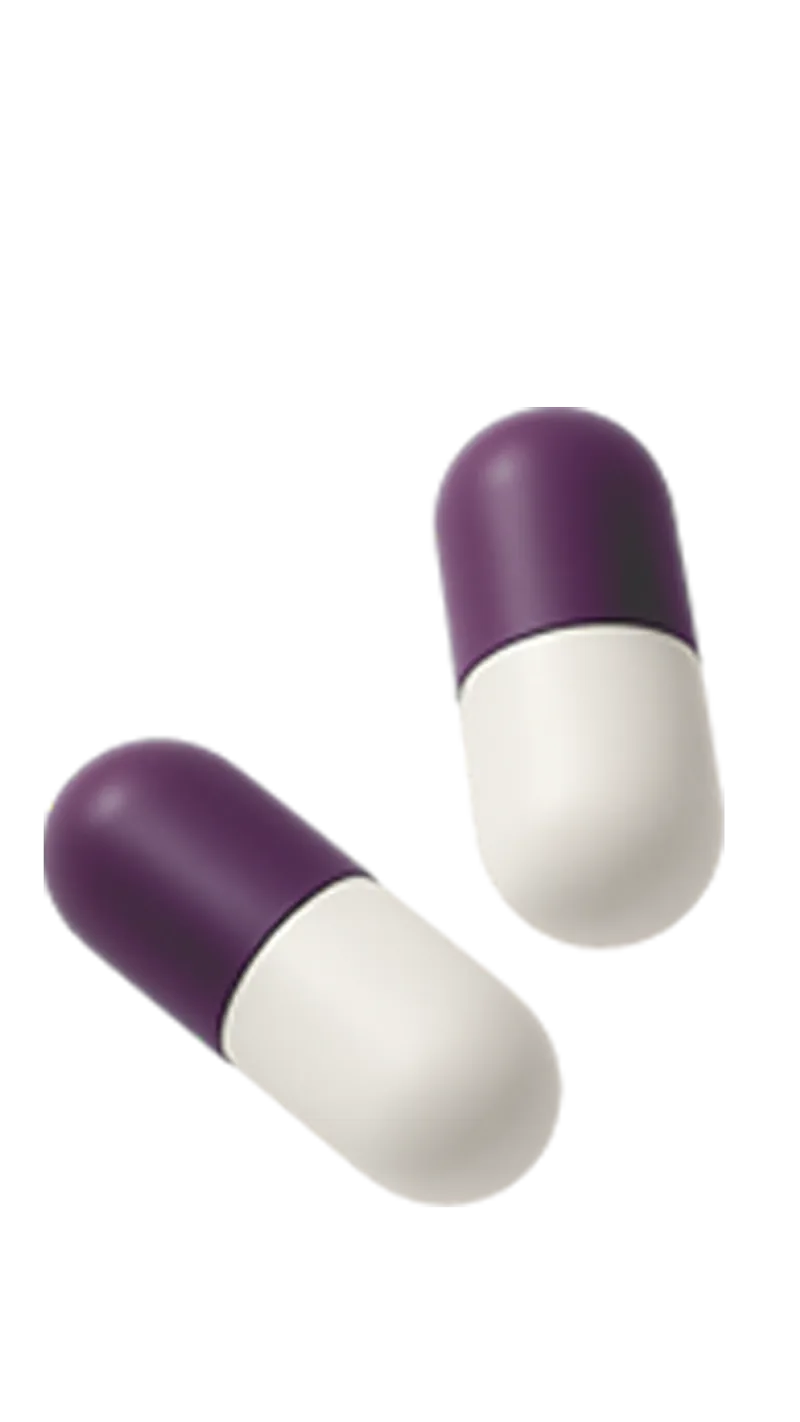
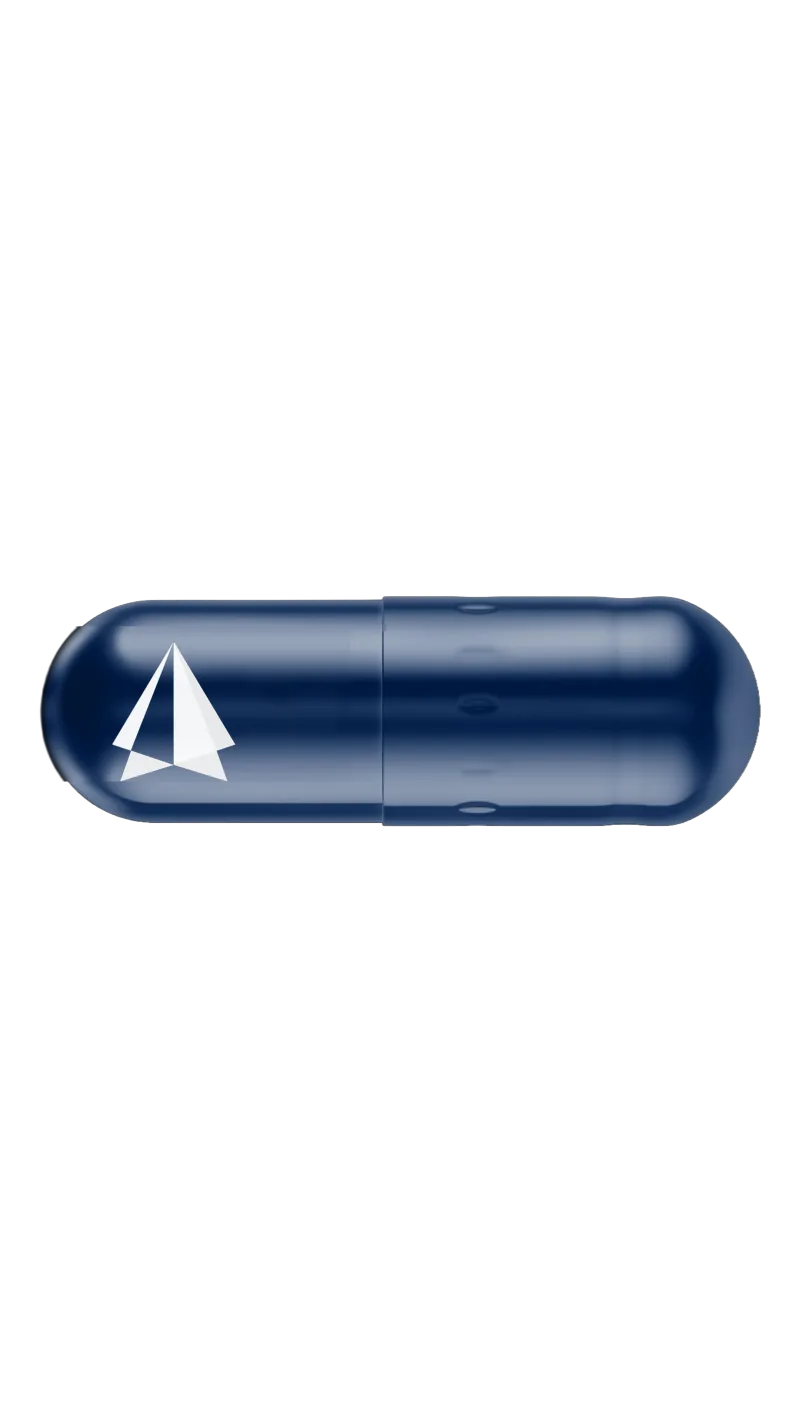
feat(products): wire Metformin + LDN photos; refresh Anastrozole/Enclomiphene (#28)
- Add main product photos for Metformin and Low-Dose Naltrexone.
- Refresh Anastrozole and Enclomiphene Citrate photos (same paths).
- All compressed to <20KB WebP.

Changed region(s): [[0.0312, 0.2785, 0.9688, 0.8664]]

diff --git a/src/data/products.ts b/src/data/products.ts
@@ -816,6 +816,8 @@ export const products: Product[] = [
     ],
     description:
       "First-line oral therapy that improves insulin sensitivity and supports metabolic health.",
+    image: "/images/products/metformin.webp",
+    imageAlt: "Logos RX Metformin oral tablets",
     concentration: "500 mg / 850 mg / 1,000 mg",
     form: "Oral Tablets",
     size: "As prescribed",
@@ -1490,6 +1492,8 @@ export const products: Product[] = [
     ],
     description:
       "Compounded low-dose naltrexone for immune balance, inflammation modulation, and well-being.",
+    image: "/images/products/low-dose-naltrexone.webp",
+    imageAlt: "Logos RX Low-Dose Naltrexone oral capsules",
     concentration: "1.5 mg / 3.0 mg / 4.5 mg",
     form: "Oral Capsules",
     size: "As prescribed",